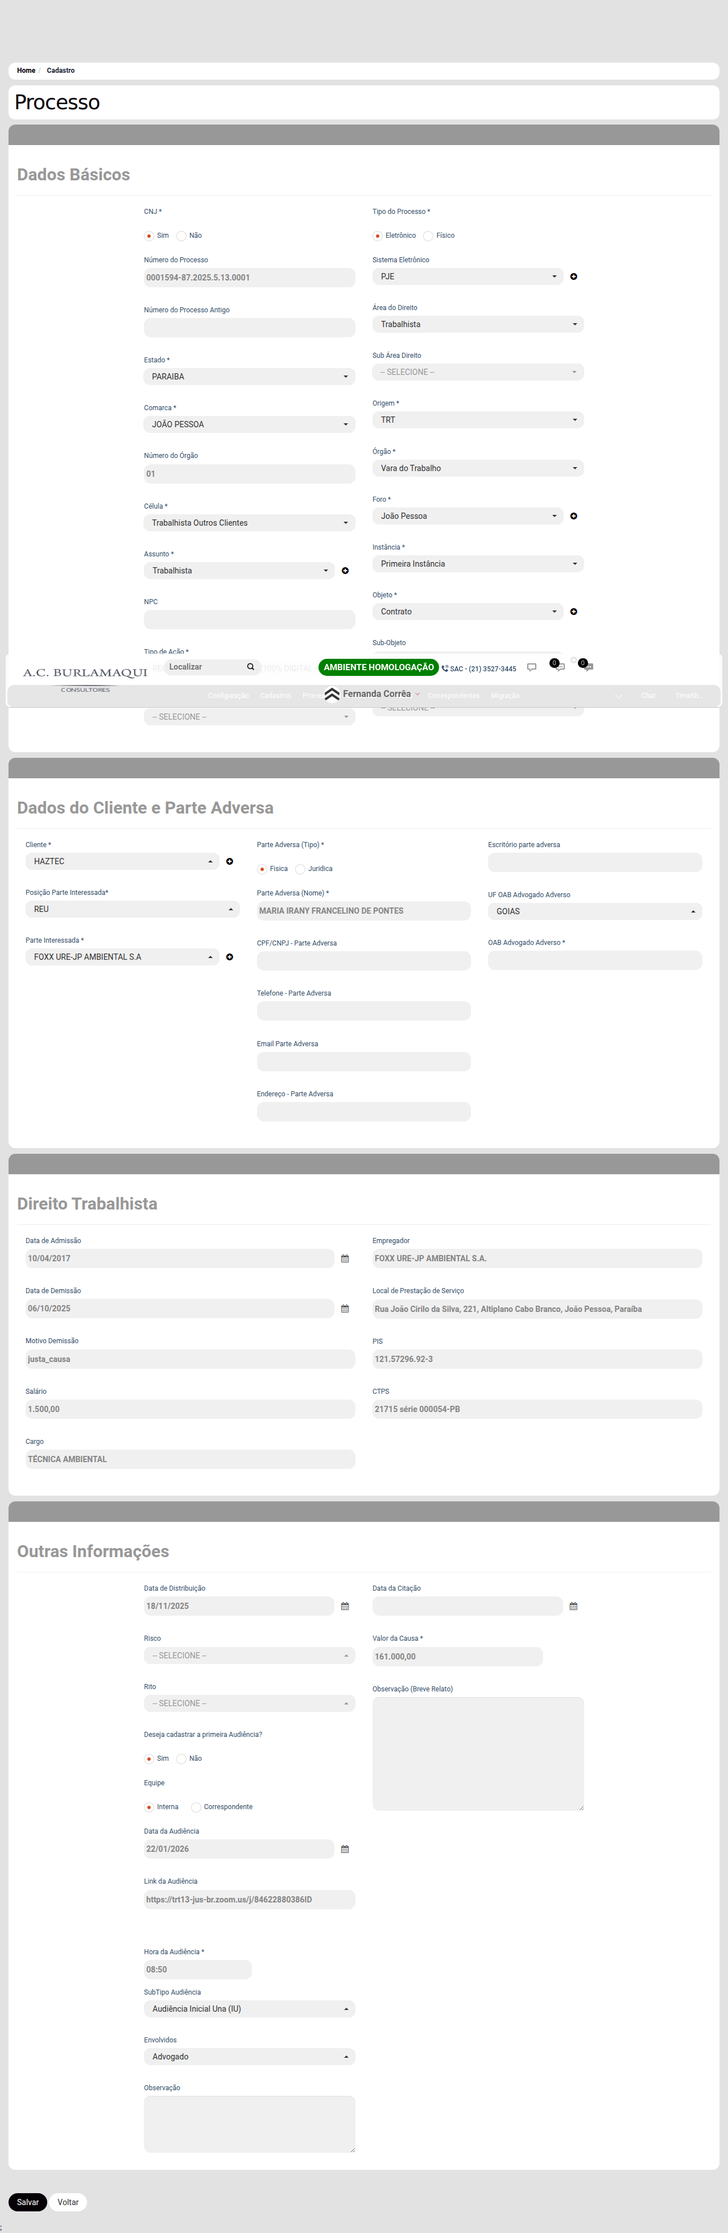
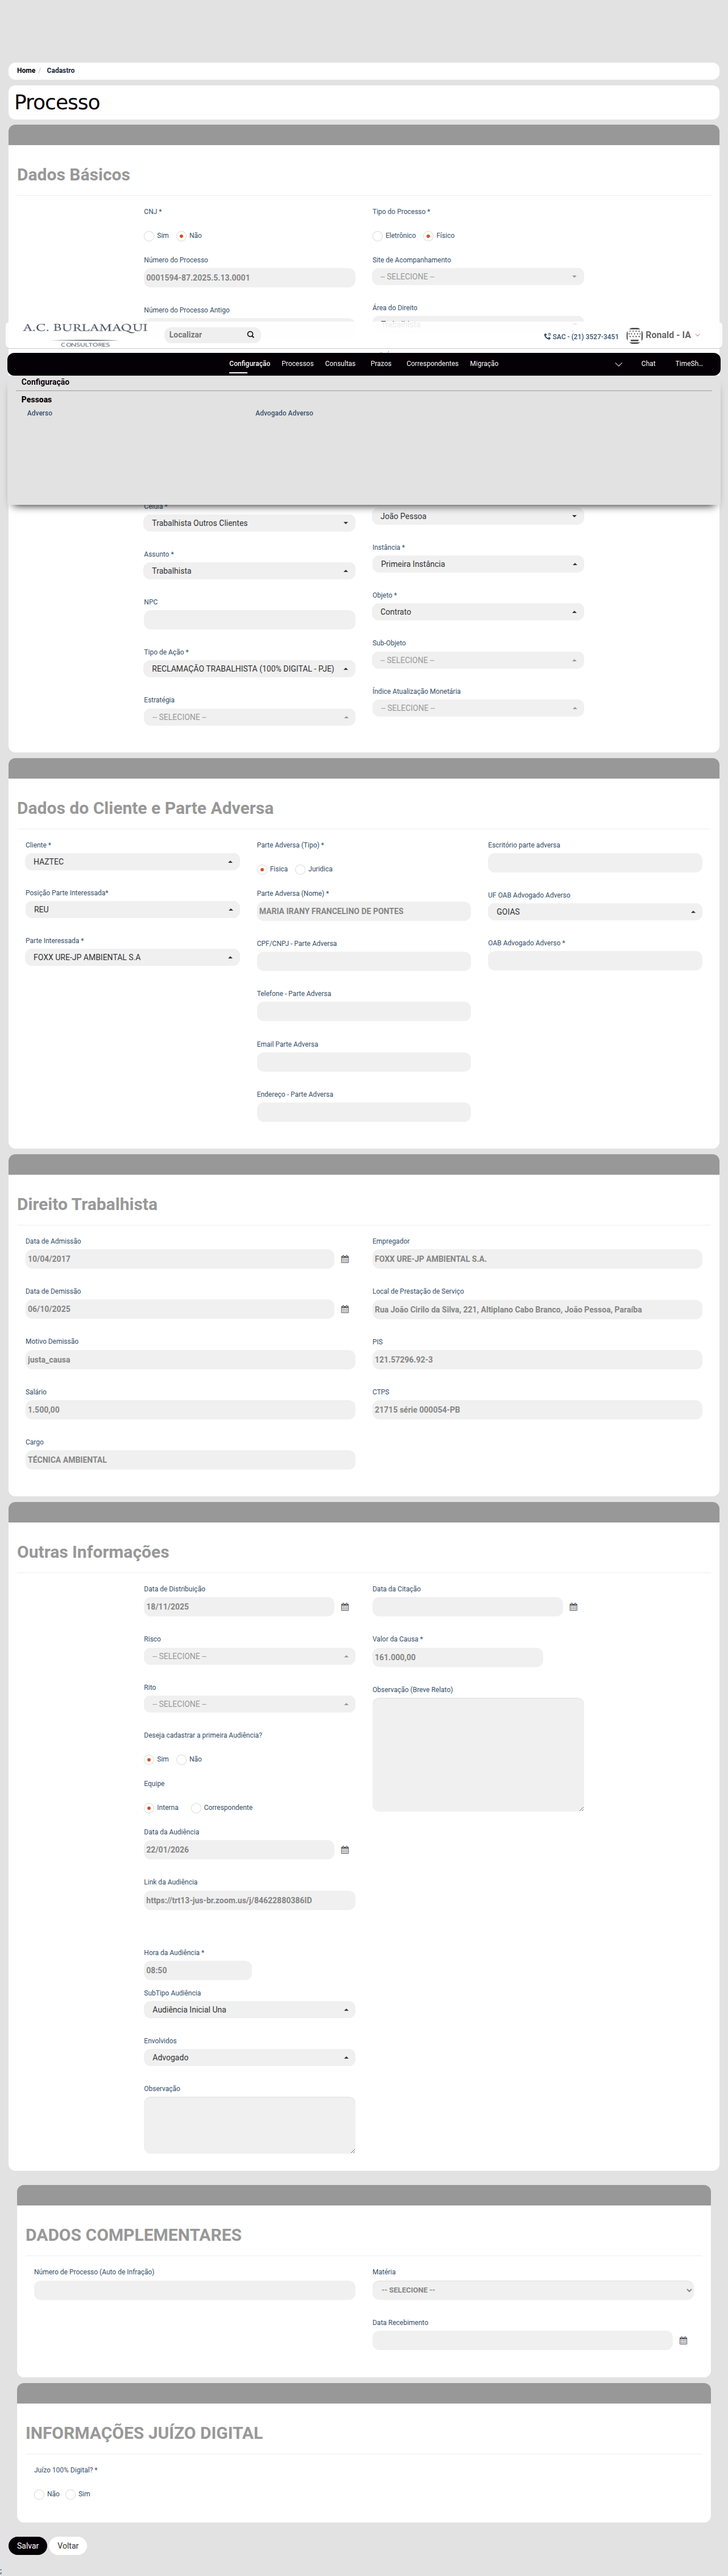
Add robust verification and correction for new process form navigation
Implement checks to ensure the RPA lands on the correct "New Process" form, with corrective navigation via menu clicks if it lands on the "Configuration" page.

Replit-Commit-Author: Agent
Replit-Commit-Session-Id: 50a45bb1-6eea-4084-af28-77e38a562da7
Replit-Commit-Checkpoint-Type: full_checkpoint
Replit-Commit-Event-Id: b7534501-74f9-49bc-a0d9-9ca8babd862f
Replit-Commit-Screenshot-Url: https://storage.googleapis.com/screenshot-production-us-central1/c1dbbe79-63b6-491a-b0e4-b8cb2bcd75b1/50a45bb1-6eea-4084-af28-77e38a562da7/Xioy5PR

Changed region(s): [[0.0, 0.0, 1.0, 0.9946], [0.5312, 0.7149, 0.5625, 0.746]]

diff --git a/rpa.py b/rpa.py
@@ -8428,6 +8428,56 @@ async def ensure_on_new_process_form(page, process_id: int = None):
         await page.wait_for_url(re.compile(form_url_pattern), timeout=60000)  # 60s - tolerante a redirecionamento lento
         log(f"[BATCH][DEBUG] URL do form confirmada, ajustando zoom...")
         await ensure_zoom_100(page, "form_batch")
+        
+        # 🔧 FIX 2025-12-09: Verificar se realmente estamos no formulário de Processo
+        # Produção tem layout diferente - pode ter navegado para página errada
+        for verify_attempt in range(3):
+            # Verificar se o formulário de CNJ existe (indicador que estamos na página certa)
+            cnj_exists = await page.locator("#CnjSim, #ProtocoloInicial, input[name='ProtocoloInicial']").count() > 0
+            dados_basicos_title = await page.locator("h4:has-text('Dados Básicos'), h3:has-text('Dados Básicos'), .card-header:has-text('Dados Básicos')").count() > 0
+            
+            # Verificar se NÃO estamos na página de Configuração (seção Pessoas/Adverso no topo)
+            # Na página de Configuração, "Pessoas" e "Adverso" aparecem como abas/seções no topo
+            config_header = await page.locator("h3:has-text('Configuração'), .page-title:has-text('Configuração')").count() > 0
+            pessoas_adverso_tabs = await page.locator("text=Adverso >> nth=0").count() > 0
+            is_config_page = config_header or (pessoas_adverso_tabs and not dados_basicos_title)
+            
+            log(f"[BATCH][VERIFY] Tentativa {verify_attempt+1}: CNJ={cnj_exists}, DadosBasicos={dados_basicos_title}, ConfigPage={is_config_page}")
+            
+            if cnj_exists and not is_config_page:
+                log(f"[BATCH][VERIFY] ✅ Confirmado: estamos no formulário de Novo Processo")
+                break
+            elif is_config_page or not cnj_exists:
+                log(f"[BATCH][VERIFY] ⚠ Página incorreta detectada - tentando navegar via clique no menu")
+                # Tentar clicar diretamente no menu Processos usando texto
+                try:
+                    # Primeiro, clicar no menu Processos
+                    processos_link = page.locator("a:has-text('Processos'), nav a:text-is('Processos')").first
+                    if await processos_link.count() > 0:
+                        await processos_link.click(timeout=5000)
+                        await short_sleep_ms(500)
+                        
+                        # Depois, clicar em Novo Processo
+                        novo_processo_link = page.locator("a:has-text('Novo Processo'), a[href*='/Processo/form']").first
+                        if await novo_processo_link.count() > 0:
+                            await novo_processo_link.click(timeout=5000)
+                            await short_sleep_ms(1000)
+                            log(f"[BATCH][VERIFY] Clique no menu Processos > Novo Processo executado")
+                        else:
+                            # Fallback: ir direto pela URL
+                            await page.goto(target, wait_until="domcontentloaded", timeout=60000)
+                    else:
+                        # Fallback: ir direto pela URL
+                        await page.goto(target, wait_until="domcontentloaded", timeout=60000)
+                except Exception as nav_err:
+                    log(f"[BATCH][VERIFY] Erro na navegação corretiva: {nav_err}")
+                    # Último recurso: recarregar a URL
+                    await page.goto(target, wait_until="domcontentloaded", timeout=60000)
+                
+                await short_sleep_ms(1000)
+            else:
+                break  # Formulário parece correto
+        
         log("[BATCH] ✅ Formulário 'Novo Processo' aberto e limpo")
         if process_id:
             update_status("formulario_pronto", "Formulário pronto para preenchimento", process_id=process_id)
